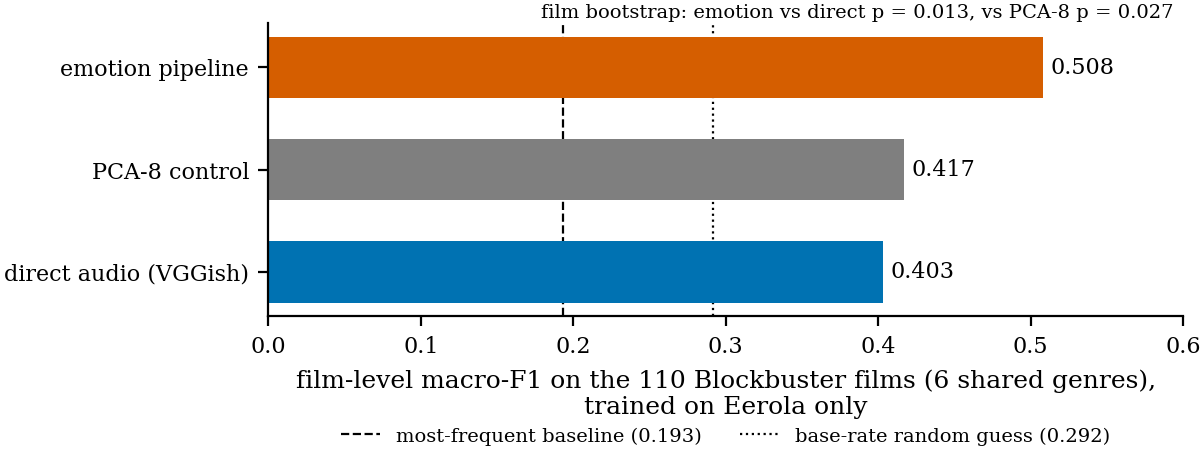
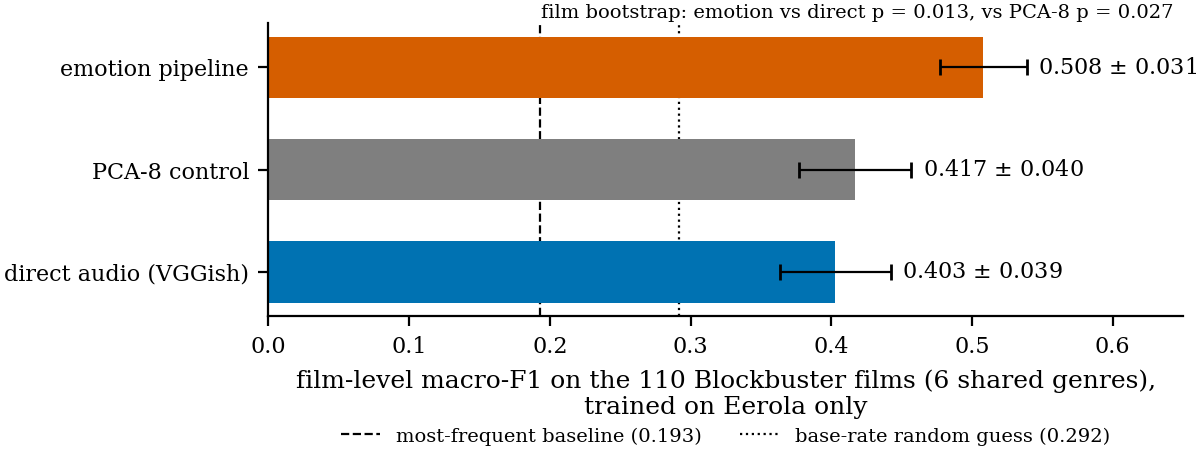
Author's comments in _Thesis_05.11.pdf worked through (Overleaf f441e67, log section 34); zero-shot arms store their bootstrap SD, Figure 5.8 has error bars (all other numbers unchanged)

diff --git a/docs/latex/chapters/3_evaluation.tex b/docs/latex/chapters/3_evaluation.tex
@@ -124,8 +124,9 @@ and most films are Drama. That is above both chance floors. The emotion pipeline
 0.022 ahead of it ($p=0.518$), and the ratings 0.054 ($p=0.086$). Over clips both lie below
 it (0.405 and 0.416 against 0.430). Every direct representation and the PCA-8 control lie
 below it at both levels. Macro-$F_1$ at the default threshold therefore says little about
-skill on its own. A measure without a threshold is clearer. The film-level macro ROC-AUC
-is 0.655 for the emotion pipeline and 0.691 for the ratings, where such a classifier
+skill on its own. A measure without a threshold is clearer. The macro ROC-AUC gives the
+chance that a film with a genre is ranked above a film without it
+(Section~\ref{sec:fund_evaluation}). At film level it is 0.655 for the emotion pipeline and 0.691 for the ratings, where such a classifier
 scores 0.50. This lead of 0.155 is significant ($p<0.001$). The emotions do carry genre
 information, but less than the distance to the chance floors suggests
 (Appendix~\ref{sec:app_floor}).
@@ -192,8 +193,10 @@ argument. Appendix~\ref{sec:app_comparisons} lists all paired comparisons.
 In Table~\ref{tab:power_cmp}, $\Delta$ is the first pipeline minus the second, with its
 95\,\% interval and $p$-value from the paired film bootstrap. ``Won'' counts the ten
 repeats in which the first pipeline scores higher. The two columns on the right score the
-same predictions over clips with the Nadeau--Bengio corrected $t$-test. That test needs
-one score per test fold and therefore cannot be computed per film. Bold marks $p<0.05$.
+same predictions over clips with the Nadeau--Bengio corrected $t$-test. Unlike an ordinary
+$t$-test, it allows for the folds sharing most of their training films
+(Section~\ref{sec:fund_evaluation}). It needs one score per test fold and therefore cannot be
+computed per film. Bold marks $p<0.05$.
 ``Emotion'' is the emotion pipeline on VGGish. The representation it is compared with is
 given to the same classifier directly.
 
@@ -261,7 +264,7 @@ Three results follow. First, the emotion pipeline is ahead of the direct use of 
 representation in all 18 combinations, by 0.032 to 0.209 at film level and by 0.024 to
 0.086 over clips. The gain is largest for AST and wav2vec~2.0, the two weakest direct
 representations. There it stays significant for every regressor after correcting for the
-18 tests with the Holm method ($p<0.001$). It is smallest for MusiCNN, the strongest
+18 tests with the Holm method ($p<0.001$; Section~\ref{sec:fund_evaluation}). It is smallest for MusiCNN, the strongest
 direct representation (0.032 to 0.049, $p\geq0.32$). Second, inside the emotion pipeline
 the representation hardly matters. With the random forest, every representation is within
 0.034 of VGGish, and none differs from it significantly ($p\geq0.15$). The 18 emotion
@@ -458,7 +461,8 @@ the most discriminating emotion overall, followed by valence.
 The signatures were derived from human ratings on one dataset. The second dataset can
 test whether they describe film music in general or only that dataset. The random forest
 trained on the VGGish embeddings of the Eerola clips predicts the eight emotions for each
-of the 4664 Blockbuster cues. The same effect sizes are then computed there for the six
+of the 4664 Blockbuster cues. A cue is one continuous piece of score music as it is used in
+the film (Section~\ref{subsec:methods_blockbuster}). The same effect sizes are then computed there for the six
 shared genres. No emotion labels for Blockbuster exist or are used, so any agreement comes
 from transfer and not from fitting. Figure~\ref{fig:signatures} shows the two matrices
 side by side.
@@ -509,8 +513,8 @@ same film were in the training and the test data. This was checked against the I
 identifiers of all films. None of the 42 Eerola films occurs among the 110 Blockbuster
 films, and no titles match. The Eerola films all came out before 2011, and the
 Blockbuster films between 2014 and 2019. Some composers, however, appear in both datasets.
-For example, Danny Elfman scored \emph{Batman} in Eerola and \emph{Justice League} in
-Blockbuster, which quotes his Batman theme. Some stylistic similarity across the split is
+For example, Hans Zimmer wrote the music for \emph{The Last Samurai} in Eerola and for
+\emph{Interstellar} and \emph{Dunkirk} in Blockbuster. Some stylistic similarity across the split is
 therefore possible, but it is not a shared film. A related problem was found inside the
 Eerola dataset and corrected before the results reported here. One film appeared under
 two spellings of its title. Grouping by film therefore treated it as two films and could
@@ -549,6 +553,9 @@ line marks the base-rate random guess (0.295). The four pipelines are defined as
   \item \emph{Direct VGGish, vote over cues}: the classifier is trained on single cues,
     each labelled with its film's genres. A film gets a genre when more than half of its
     cues predict it. This is the instance majority voting of \citet{ma2021computational}.
+    For example, a film with 40 cues gets Action if at least 21 of them are classified as
+    Action. The classifier thus learns from many short pieces of each film, and the vote
+    turns their answers into one decision per film.
   \item \emph{PCA-8 control}: the film-average embedding compressed to eight principal
     components, fitted on the training films.
 \end{itemize}
@@ -581,7 +588,8 @@ and recall.
 \end{figure}
 
 In Figure~\ref{fig:zero_shot}, the dashed line is the plurality baseline and the dotted
-line the base-rate random guess. The $p$-values are paired bootstraps over the 110 films.
+line the base-rate random guess. The error bars are the bootstrap standard deviation over the
+110 films, and the $p$-values come from the paired bootstrap over the same films.
 
 \begin{table}[tbp]
   \centering
@@ -611,7 +619,10 @@ $+0.106$ [$+0.021$, $+0.184$] ($p=0.013$) and the PCA-8 control (0.417) by $+0.0
 in contrast, gains only $+0.013$ over the raw features ($p=0.737$). Under the other
 scaling regime the lead over direct VGGish is $+0.118$ ($p=0.001$). The lead is partly
 driven by recall. The emotion pipeline finds more of the true genres (0.651 against
-0.435), at lower precision (0.480 against 0.705). In this transfer it makes little
+0.435), at lower precision (0.480 against 0.705). Macro-$F_1$ is the mean of the $F_1$ values
+of the genres, not the $F_1$ of the mean precision and recall. Direct VGGish is precise
+overall, but its $F_1$ on Romance and Horror is only 0.14 and 0.17. The emotion
+pipeline reaches 0.42 and 0.24 on them, and 0.61 instead of 0.38 on Sci-Fi. In this transfer it makes little
 difference whether the emotions are predicted per cue or once from the film-average
 embedding (0.508 against 0.502). In-domain on Blockbuster the prediction per cue is
 clearly better (Appendix~\ref{sec:app_blockbuster}).
@@ -637,7 +648,7 @@ Eerola films. The emotion regressor is fitted on the Eerola training folds, and 
 held-out Eerola films touch neither fit. In the pooled design both datasets are in the
 training set, and cross-validation runs over both.
 
-\begin{figure}[t]
+\begin{figure}[!htb]
   \centering
   \includegraphics[width=\textwidth]{figures/cross_dataset.pdf}
   \caption{Film-level macro-$F_1$ for the three cross-dataset designs (six shared genres, VGGish).}
@@ -648,9 +659,17 @@ In Figure~\ref{fig:cross_dataset}, the left group is trained on Eerola and teste
 Blockbuster. The middle group is trained on Blockbuster and tested on Eerola. The right
 group is cross-validated with both datasets in training. For the two transfer directions,
 the error bars are the bootstrap standard deviation over the test films. For the pooled
-design they are the standard deviation of the five repeat means. The left group comes
-from a re-implementation in which the emotion regressor is trained on all 360 rated clips,
-so it differs slightly from Figure~\ref{fig:zero_shot}.
+design they are the standard deviation of the five repeat means.
+
+The left group is a second implementation of the zero-shot direction. It was written to run
+all three designs with the same code, and it differs from the zero-shot experiment in two
+details. Its emotion regressor is trained on all 360 rated clips, because the regressor needs
+only ratings, not genre labels. Its film vectors give every cue the same weight, whereas the
+zero-shot experiment averages over all frames of a film. The scores therefore differ slightly
+from Figure~\ref{fig:zero_shot}: 0.503 against 0.508 for the emotion pipeline and 0.383
+against 0.403 for direct VGGish. The zero-shot experiment stays the main result. It was fixed
+first, and it carries the further checks: both scaling regimes, the ratings arm and the tuned
+thresholds.
 
 The emotion pipeline is ahead of direct VGGish in both transfer directions, but
 significantly only from Eerola to Blockbuster (0.503 against 0.383, $+0.121$, $p=0.007$).

diff --git a/docs/latex/chapters/2_analysis.tex b/docs/latex/chapters/2_analysis.tex
@@ -142,7 +142,7 @@ One confound limits what this comparison can show. wav2vec~2.0 differs from the 
 
 The first stage maps an audio embedding to the eight emotion ratings. It is a single random forest regressor with 300 trees that predicts all eight emotions together as one multi-output target. All other settings are library defaults. The same regressor is used for every representation, so the representations are compared on equal terms.
 
-The regressor was chosen by experiment. A random forest, ridge regression and support vector regression (SVR) with a radial basis function (RBF) kernel were compared on all six representations, under the protocol of the Stage-1 evaluation (Appendix~\ref{sec:app_grid}). Ridge regression depends strongly on its regularisation strength $\alpha$. With the library default ($\alpha=1$) it reaches a mean $R^2$ of only 0.385 over the eight emotions on VGGish. With $\alpha$ chosen by cross-validation grouped by film inside the training films, it reaches 0.584, against 0.535 for SVR and 0.553 for the random forest. A first comparison used the default and so made the random forest look better than it is. On the spectrogram embeddings the three regressors are in fact close, with tuned ridge regression slightly ahead. On MusiCNN and the hand-crafted descriptors the random forest is the most accurate. The random forest was kept because it needs no tuning of its own and can model non-linear relations. Section~\ref{subsec:eval_grid} shows that with VGGish the genre result hardly depends on this choice.
+The regressor was chosen by experiment. A random forest, ridge regression and support vector regression (SVR) with a radial basis function (RBF) kernel were compared on all six representations, under the protocol of the Stage-1 evaluation (Appendix~\ref{sec:app_grid}). Section~\ref{sec:fund_ml} explains how ridge regression and SVR work. Ridge regression depends strongly on its regularisation strength $\alpha$. With the library default ($\alpha=1$) it reaches a mean $R^2$ of only 0.385 over the eight emotions on VGGish. With $\alpha$ chosen by cross-validation grouped by film inside the training films, it reaches 0.584, against 0.535 for SVR and 0.553 for the random forest. A first comparison used the default and so made the random forest look better than it is. On the spectrogram embeddings the three regressors are in fact close, with tuned ridge regression slightly ahead. On MusiCNN and the hand-crafted descriptors the random forest is the most accurate. The random forest was kept because it needs no tuning of its own and can model non-linear relations. Section~\ref{subsec:eval_grid} shows that with VGGish the genre result hardly depends on this choice.
 
 Stage~1 is trained on emotion ratings, which only the Eerola dataset has. When the stage is evaluated on its own, all 360 rated clips of Set~1 are used, including those without a modelled genre. When it feeds the genre classifier, it is fitted only on the clips of the training films of the current fold (in-domain). In the zero-shot experiment it is fitted on the 319 Eerola clips of the shared space, and in the re-implementation of Section~\ref{sec:eval_transfer} on all 360 rated clips. It is then applied to clips or cues it has not seen.
 

diff --git a/docs/latex/chapters/supplementary.tex b/docs/latex/chapters/supplementary.tex
@@ -407,7 +407,14 @@ is leave-one-film-out over the 110 films, with macro-averaged precision, recall 
 \end{table}
 
 In Table~\ref{tab:blockbuster_reference}, the published values are quoted from
-\citet{ma2021computational}, Table~4. This direct pipeline is within the range of their
+\citet{ma2021computational}, Table~4. Their models all treat a film as a set of cues.
+VGGish and MIR name the features of each cue. \emph{Average pooling} averages the cue
+vectors of a film into one vector before classifying it. \emph{Single attention} lets a
+small network learn a weight for each cue, so that the more informative cues count more in
+that average. \emph{Simple-MI} (simple multiple-instance learning) also summarises each film
+by its cues and then classifies it with $k$-nearest neighbours ($k$NN) or a support vector
+machine (SVM). The random guess predicts each genre at its base rate, and the plurality label
+set gives every film the most common combination of genres. This direct pipeline is within the range of their
 VGGish models, and both of their baselines reproduce to within 0.03. The classifier is
 thus checked against an outside result before it is used for transfer. Under the repeated
 protocol of Figure~\ref{fig:blockbuster_cv}, the learned embedding (0.593) does not beat

diff --git a/experiments/cross_dataset/exp_zero_shot.py b/experiments/cross_dataset/exp_zero_shot.py
@@ -135,6 +135,20 @@ def bootstrap_diff(Yte, pred_a, pred_b, n_boot: int = 2000) -> dict:
             "n_boot": int(len(diffs))}
 
 
+def bootstrap_sd(Yte, pred, n_boot: int = 2000) -> float:
+    """Standard deviation of one arm's macro-F1 over the resamples of ``bootstrap_diff``
+    (same seed, same draws, same rule for dropping a draw): the error bar of the figure."""
+    rng = np.random.default_rng(config.SEED)
+    n = len(Yte)
+    vals = []
+    for _ in range(n_boot):
+        s = rng.integers(0, n, n)
+        if Yte[s].sum(0).min() == 0 or Yte[s].sum(0).max() == len(s):
+            continue
+        vals.append(macro_prf(Yte[s], pred[s])["macro_f1"])
+    return float(np.std(vals, ddof=1))
+
+
 # --------------------------------------------------------------------------- #
 # Feature builders. Every transform is fitted on the TRAINING corpus only.
 # --------------------------------------------------------------------------- #
@@ -312,6 +326,7 @@ def main() -> None:
         res = {}
         for name, (A, B) in arms.items():
             r = transfer_score(A, Ye, B, Yb, groups_e)
+            r["boot_sd"] = bootstrap_sd(Yb, r["_pred"])
             res[name] = r
             print(row(name, r))
         print(row("random guess (freq) [Ma .32]", b_rand))

diff --git a/experiments/make_figures.py b/experiments/make_figures.py
@@ -196,8 +196,10 @@ def fig_zero_shot():
     fig, ax = plt.subplots(figsize=(WIDTH, 1.9))
     for i, (k, lab) in enumerate(rows[::-1]):
         v = z[k]
-        ax.barh(i, v["macro_f1"], color=route_colour(lab), height=0.6)
-        ax.text(v["macro_f1"] + 0.005, i, f"{v['macro_f1']:.3f}", va="center", fontsize=8)
+        ax.barh(i, v["macro_f1"], color=route_colour(lab), height=0.6,
+                xerr=v["boot_sd"], error_kw=dict(ecolor="black", lw=0.8, capsize=3))
+        ax.text(v["macro_f1"] + v["boot_sd"] + 0.008, i,
+                f"{v['macro_f1']:.3f} $\\pm$ {v['boot_sd']:.3f}", va="center", fontsize=8)
     ax.set_yticks(range(len(rows)), [r[1] for r in rows[::-1]])
     floor_line(ax, d["blockbuster_baselines"]["plurality"]["macro_f1"], "most-frequent baseline")
     floor_line(ax, d["blockbuster_baselines"]["random_guess"]["macro_f1"],
@@ -211,7 +213,7 @@ def fig_zero_shot():
             f"vs PCA-8 p = {p2:.3f}", transform=ax.transAxes, ha="right", fontsize=7)
     ax.set_xlabel("film-level macro-F1 on the 110 Blockbuster films (6 shared genres),\n"
                   "trained on Eerola only")
-    ax.set_xlim(0, 0.6)
+    ax.set_xlim(0, 0.65)
     save(fig, "zero_shot")
 
 

diff --git a/results/README.md b/results/README.md
@@ -51,7 +51,7 @@ the repository but left out of the thesis).
 | `rating_structure.json` | **How the eight rating scales relate to each other.** All 360 rated clips: correlation matrix, explained variance of a principal component analysis of it (first two components 82.4 %), and the loadings drawn in the figure `rating_structure`. §33. |
 | `clap_ridge_posthoc.json` | **Post-hoc test of CLAP with ridge regression against the VGGish pipeline** (both emotion pipelines, five genres). Per master seed the paired film bootstrap with the clip-level tests, and `pooled`: the film bootstrap over the 50 repeats of the five seeds (+0.032, p = 0.112), with a Bonferroni value for the 17 other cells. Seed means reproduce `emotion_pipeline_grid.json`. §32. |
 | `zero_shot_threshold.json` | **Zero-shot with per-genre thresholds tuned on the source dataset.** Strict regime of `zero_shot.json` (whose default scores, C and first bootstrap it reproduces, asserted); per arm: default, clip-tuned (primary) and film-tuned scores on the 110 Blockbuster films with precision, recall, per-genre F1, labels per film and the thresholds, plus the target macro ROC AUC; paired film bootstrap for the main comparisons under each rule and for AUC. Written by `experiments/cross_dataset/exp_zero_shot_threshold.py`. | not in the thesis yet (author to decide) | §31 |
-| `zero_shot.json` | **Train on Eerola, test on Blockbuster without training on it** (quote the strict, source-scaler regime). Also the in-domain reproduction of Ma et al. (2021). | yes (the main transfer result, 0.511 vs 0.407) | §15 |
+| `zero_shot.json` | **Train on Eerola, test on Blockbuster without training on it** (each arm has `boot_sd`, the error bar of Figure 5.8, §34) (quote the strict, source-scaler regime). Also the in-domain reproduction of Ma et al. (2021). | yes (the main transfer result, 0.511 vs 0.407) | §15 |
 | `cross_dataset_cv.json` | Transfer in **every direction**: Eerola→Blockbuster, the reverse, and both datasets pooled. The pooled design was re-run at its default 5×5 on 7 Oct 2026 (the earlier file held a 3×5 run). The `film_level` blocks of the reverse and pooled designs (Eerola clips averaged per film) are what the thesis quotes; the clip-level blocks beside them are unchanged. Each arm carries its spread for the error bars: `boot_sd` (bootstrap SD over the test films) for the two transfer directions, `repeat_sd` (SD of the 5 repeat means) for the pooled design. Since 8 Oct the clip-level reverse-direction bootstrap resamples whole films (§24). | yes (cross-dataset figure, Discussion table) | §19, §22.4, §23.3 |
 | `signature_replication.json` | Do the **emotion→genre signatures** found on Eerola reappear on Blockbuster (r = 0.836)? | yes (signatures figure) | §17.5 |
 | `emotion_ablation.json` | **Which emotions carry the genre signal?** Leave-one-out over the eight, plus theory-motivated subsets. | superseded by the `ablation` block of `cv_corrected.json` | §18 |

diff --git a/docs/README.md b/docs/README.md
@@ -2092,3 +2092,25 @@ says how it differs from RQ4; "stirring" became "activated"; the sentence on rig
 rebuilt; the random-guess baseline is explained with the five-genre example. It is not run
 through the cross-validation: nothing is trained, and its score is the mean over simulated
 guesses on the same labels.
+
+## 34. The author's comments in `_Thesis_05.11.pdf` (8 Nov 2026)
+
+Eighteen comments, read from the PDF on the author's Drive. Edits on Overleaf: an example of
+the film bootstrap (+0.093, CI [−0.001, +0.191], 2.6 % of draws ≤ 0, p = 0.052), ridge
+regression and SVR with an RBF kernel, ROC-AUC and the Holm method (Holm 1979, added to the
+bibliography) explained in Fundamentals; short glosses for AUC, the Nadeau–Bengio test, Holm
+and "cue" in Chapter 5; the shared-composer example is now Hans Zimmer (*The Last Samurai* in
+Eerola, *Interstellar* and *Dunkirk* in Blockbuster); the vote over cues with an example;
+macro-F1 is the mean of per-genre F1, not the F1 of mean precision and recall (direct VGGish
+Romance 0.14 and Horror 0.17, emotion 0.42 and 0.24, Sci-Fi 0.38 vs 0.61); Figure 5.9 placed
+`[!htb]` so it stays in 5.6.3; the two zero-shot implementations explained (regressor on 360
+vs 319 clips; film vectors weight every cue equally vs average all frames: 0.503 vs 0.508,
+direct 0.383 vs 0.403); the rows of Table A.5 explained.
+
+Figure 5.8 now has error bars. `exp_zero_shot.py` stores `boot_sd` per arm (standard deviation
+of the arm's macro-F1 over the same 2000 film resamples as its paired bootstrap); every other
+number in `zero_shot.json` is unchanged (checked). Strict regime: emotion pipeline 0.508 ±
+0.031, PCA-8 0.417 ± 0.040, direct VGGish 0.403 ± 0.039.
+
+Answered without an edit: the GitHub link (kept), Hamming loss alongside F1, why the
+duplicate film is mentioned, why the tuned-threshold table is in the Appendix.
